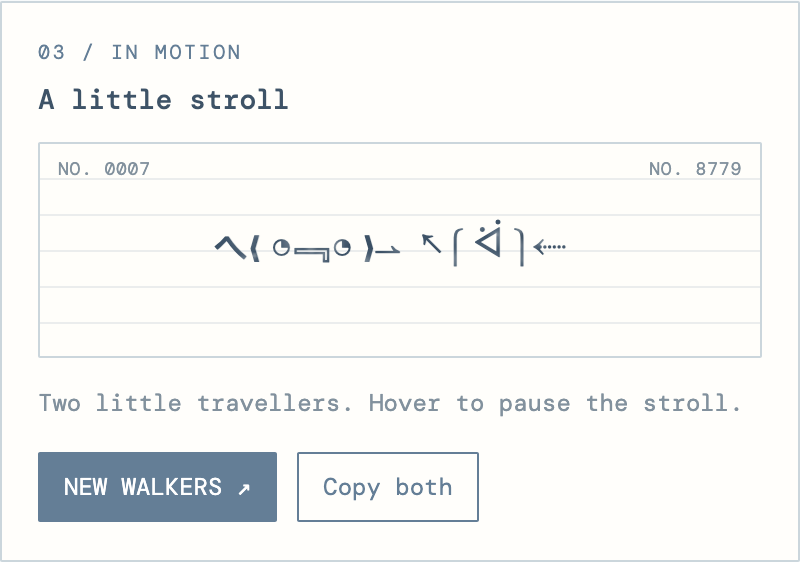
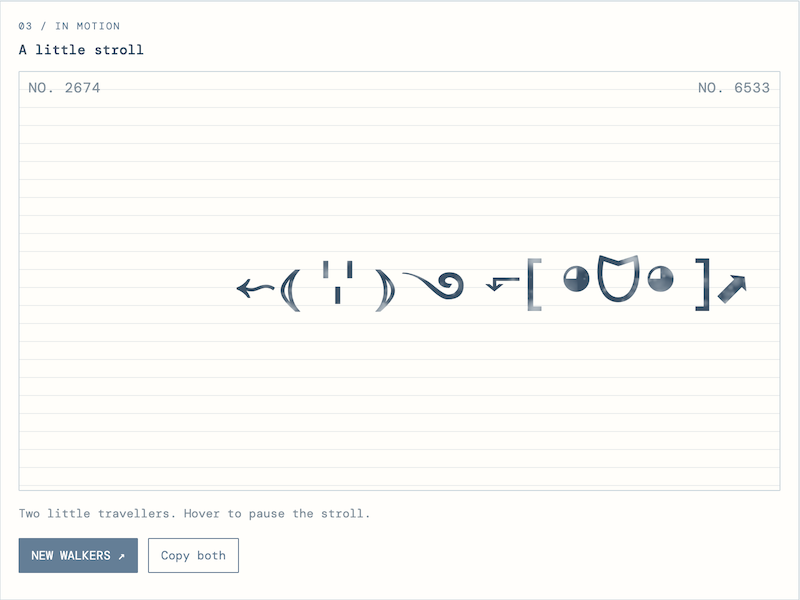
Update project Images

diff --git a/content/projects/lil-buddy.md b/content/projects/lil-buddy.md
@@ -16,14 +16,14 @@ gallery:
   - src: "single-impression.png"
     alt: "A small character assembled from Unicode symbols, displayed on a lined card with a serial number"
     caption: "An individual lil buddy, saying hello"
+    featured: true
     thumbnail:
-      zoom: 1.71
-      x: 45
-      y: 48
+      zoom: 2.12
+      x: 50
+      y: 50
   - src: "group-portrait.png"
     alt: "Nine different Unicode characters arranged in a three-by-three grid of numbered cards"
     caption: "A collection of randomly generated characters"
-    featured: true
     thumbnail:
       zoom: 2
       x: 19
@@ -32,16 +32,16 @@ gallery:
     alt: "Two Unicode characters walking along a lined strip, with controls to generate new walkers"
     caption: "Some smol frens taking a walk"
     thumbnail:
-      zoom: 2.07
-      x: 48
-      y: 40
+      zoom: 1.61
+      x: 73
+      y: 44
   - src: "awards-ceremony.png"
     alt: "Three Unicode characters standing on a winners' podium marked first, second and third"
-    caption: "Everyone's a winner!"
+    caption: "Prize ceremony at the first annual Glyphathon"
     thumbnail:
-      zoom: 1.68
-      x: 4
-      y: 22
+      zoom: 1.84
+      x: 20
+      y: 29
 ---
 
 This project began as a social media bot that periodically posted a tiny Unicode friend, or replied with one when mentioned. Each little buddy was assembled from different combinations of symbols, producing a variety of faces, bodies and arms.
@@ -50,6 +50,6 @@ This project began as a social media bot that periodically posted a tiny Unicode
 
 The original bot used Tracery, while the current web version uses JavaScript to combine Unicode symbols directly. Although the combinations are random, they follow a few rules to keep each result visually coherent: faces are either selected as single characters or made from a separate mouth and two matching eyes; body shapes use left-and-right pairs; while arms can be selected independently or from a collection of mirrored symbols. Each generation is random and independent, with no memory of previous results.
 
-{{< project-gallery label="See the smol friends celebrating" image="awards-ceremony.png" >}}
+{{< project-gallery label="See the smol friends out walking" image="in-motion.png" >}}
 
 I recreated and expanded the generator with new combinations, some animation and a deliberately imperfect typewriter aesthetic, complete with uneven ink, serial numbers and occasional printing mishaps. The little buddies can also go for a walk or take their places on a winners' podium where their randomly generated expressions give each scene its own personality.
